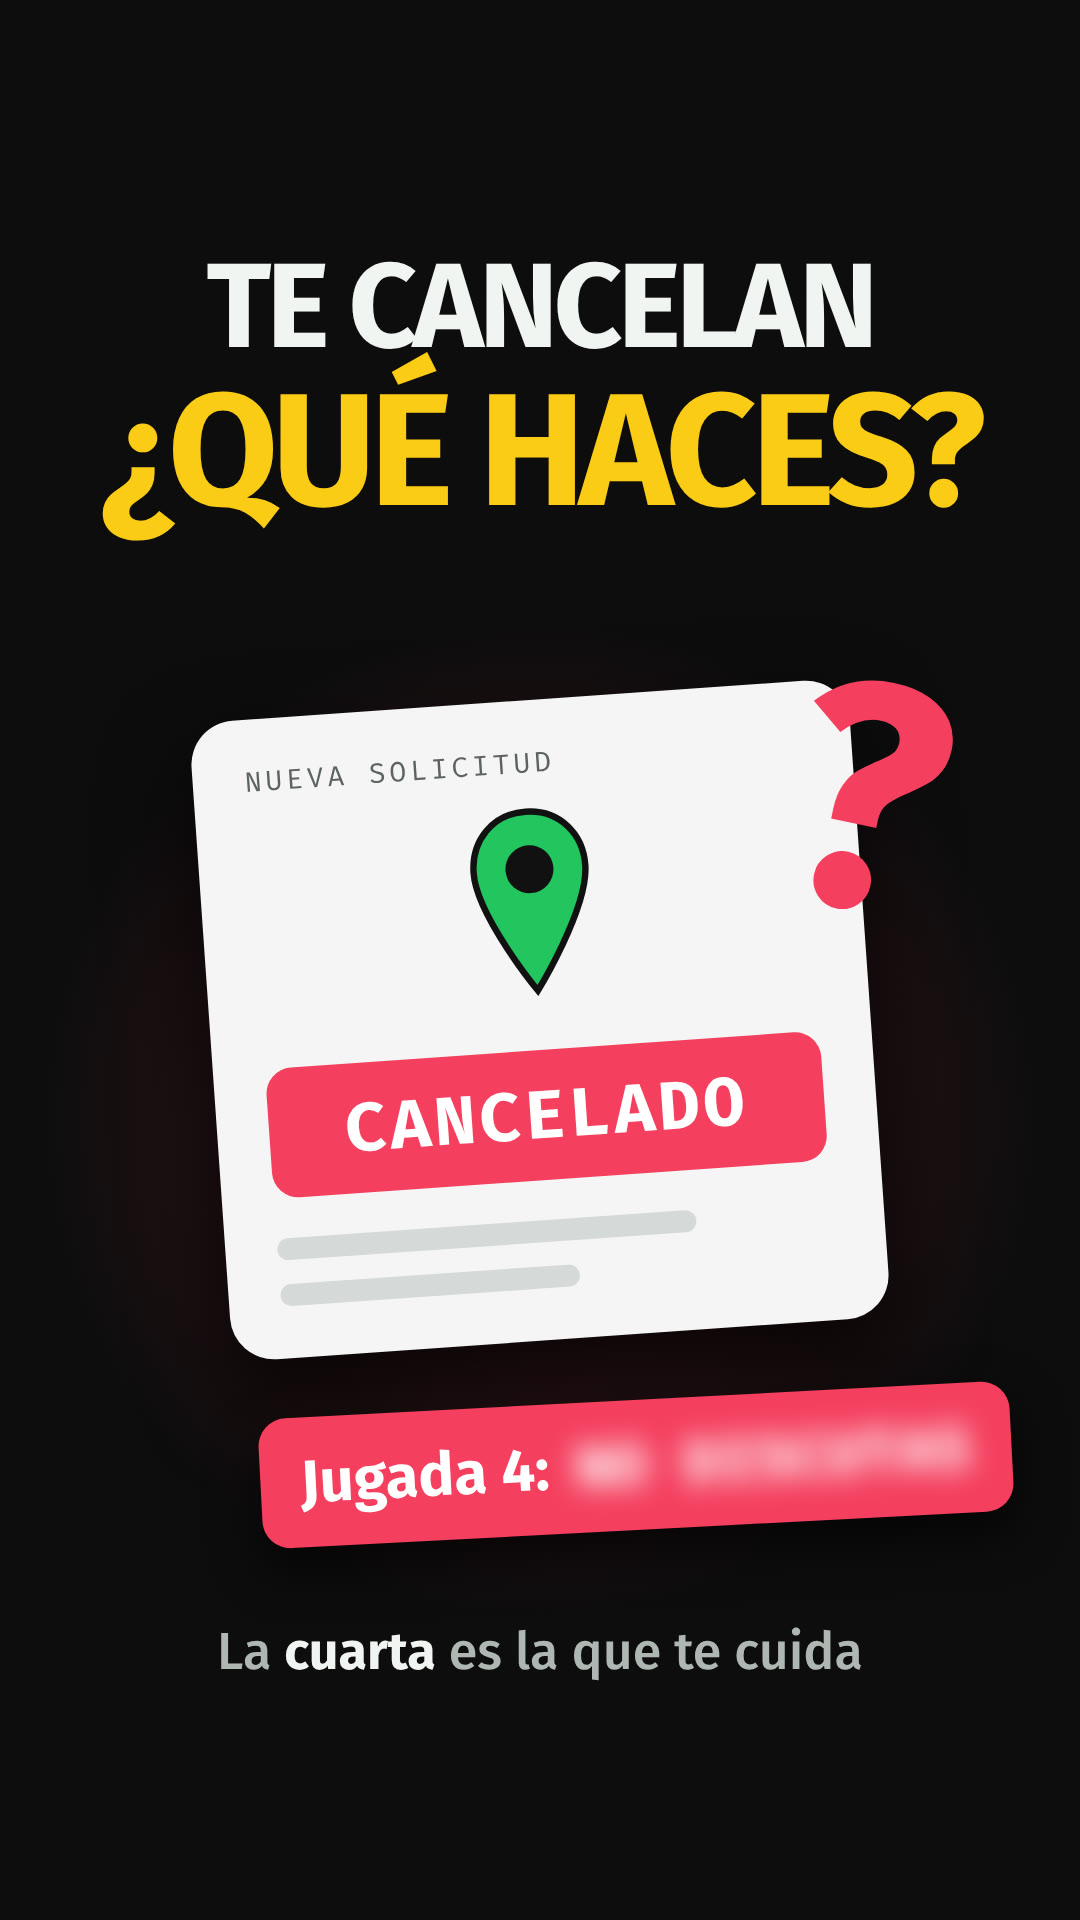
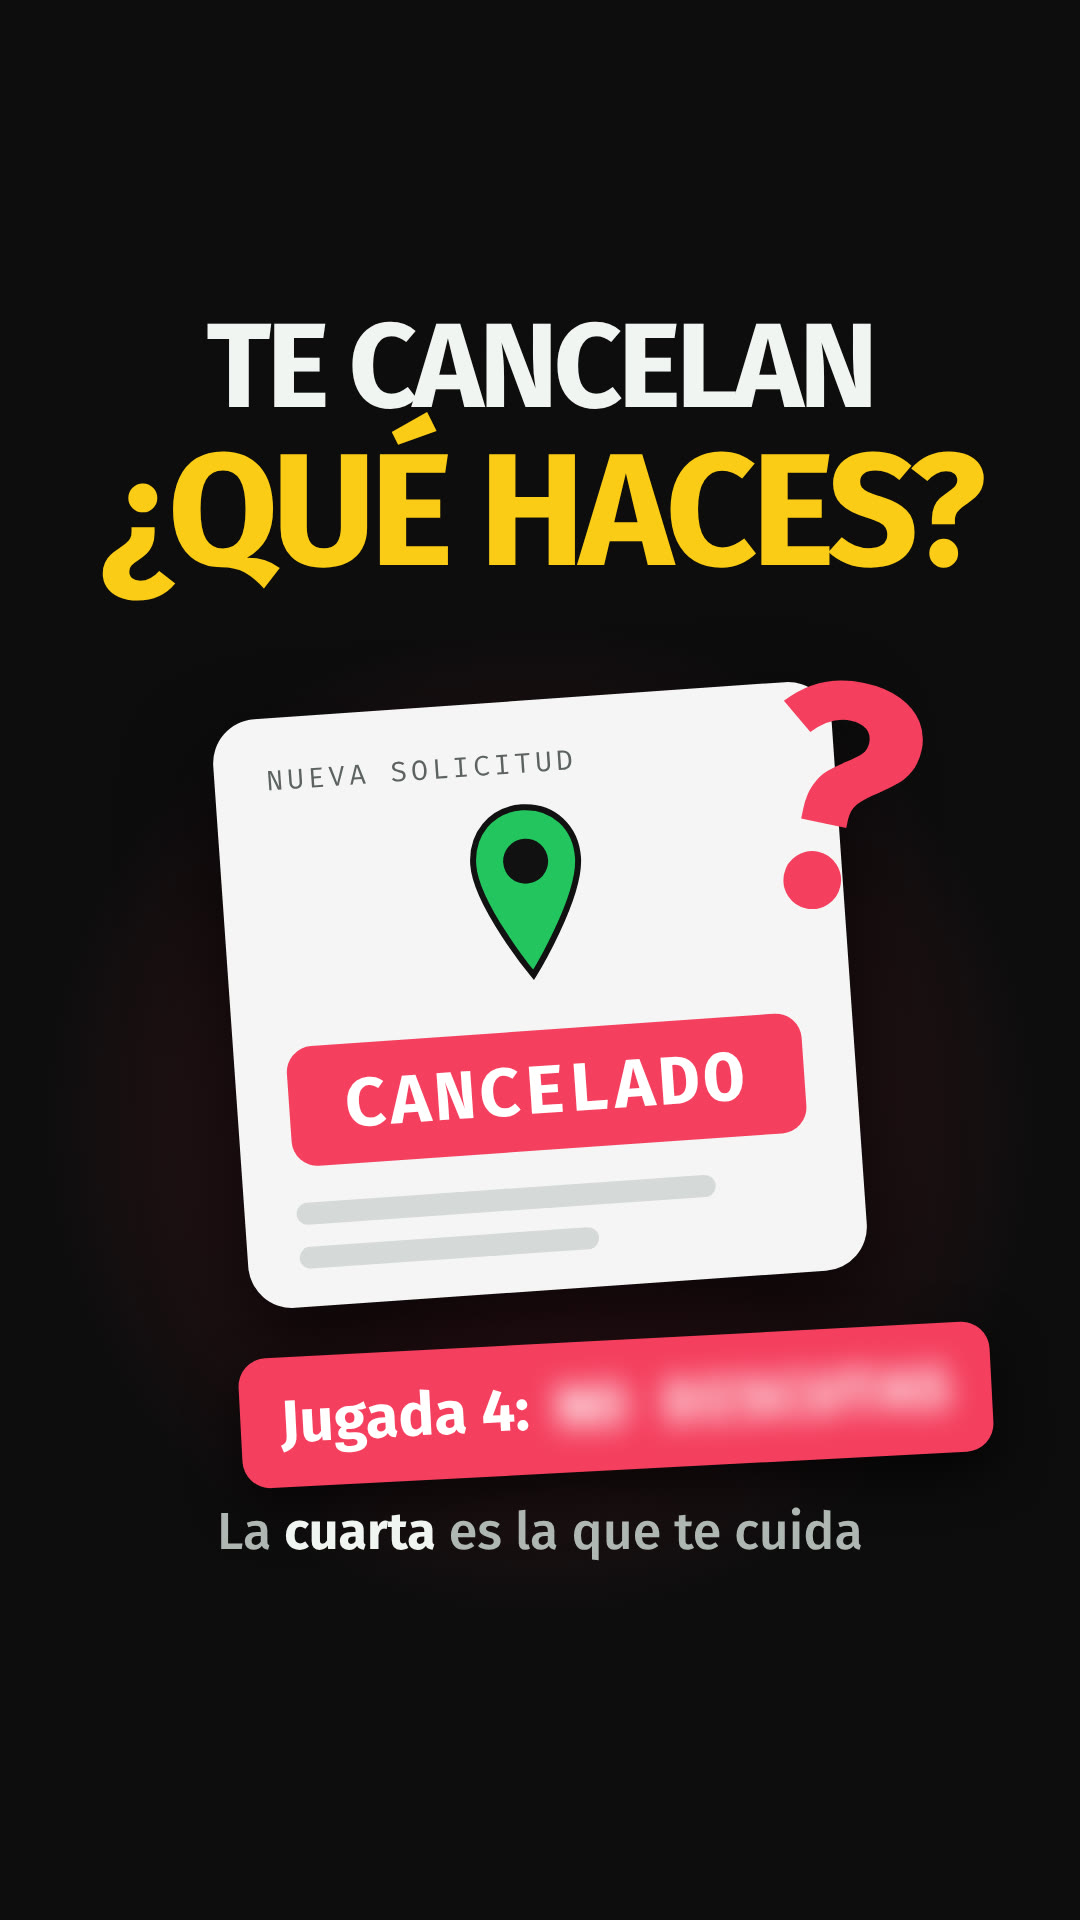
Portada 07 v2 dentro de la zona segura (y 300-1620) y regla para todas las portadas [skip ci]
Claude-Session: https://claude.ai/code/session_018NMdzaDRQ2B94wVXtvSgdR

diff --git a/video/hyperframes/pasajeros-v2/portada/portada.html b/video/hyperframes/pasajeros-v2/portada/portada.html
@@ -5,18 +5,18 @@
 html,body{margin:0;width:1080px;height:1920px;overflow:hidden;background:#0D0D0D;font-family:FS}
 .glow{position:absolute;left:-100px;top:620px;width:1280px;height:1000px;background:radial-gradient(circle,rgba(244,63,94,.26),rgba(0,0,0,0) 62%)}
 .t{position:absolute;left:0;right:0;text-align:center;font-weight:800;letter-spacing:-.04em;line-height:.95;text-transform:uppercase}
-.t1{top:250px;font-size:120px;color:#F1F5F2}
-.t2{top:375px;font-size:160px;color:#FACC15}
-.card{position:absolute;left:210px;top:700px;width:660px;height:640px;border-radius:44px;background:#F4F5F4;transform:rotate(-4deg);box-shadow:0 40px 90px rgba(0,0,0,.8)}
+.t1{top:310px;font-size:120px;color:#F1F5F2}
+.t2{top:435px;font-size:160px;color:#FACC15}
+.card{position:absolute;left:230px;top:700px;width:620px;height:590px;border-radius:44px;background:#F4F5F4;transform:rotate(-4deg);box-shadow:0 40px 90px rgba(0,0,0,.8)}
 .card .k{position:absolute;left:52px;top:44px;font-family:FC;font-size:28px;letter-spacing:.14em;color:#5C635F;text-transform:uppercase}
-.card svg{position:absolute;left:250px;top:100px;width:160px;height:208px}
-.card .can{position:absolute;left:52px;right:52px;top:350px;height:130px;border-radius:26px;background:#F43F5E;color:#fff;display:flex;align-items:center;justify-content:center;font-family:FC;font-weight:700;font-size:68px;letter-spacing:.06em}
-.card .l1{position:absolute;left:52px;top:520px;width:420px;height:22px;border-radius:11px;background:#D5D9D7}
-.card .l2{position:absolute;left:52px;top:566px;width:300px;height:22px;border-radius:11px;background:#D5D9D7}
-.tag{position:absolute;left:260px;top:1400px;transform:rotate(-3deg);background:#F43F5E;color:#fff;border-radius:28px;padding:26px 40px;font-size:60px;font-weight:800;box-shadow:0 20px 50px rgba(0,0,0,.7)}
+.card svg{position:absolute;left:230px;top:96px;width:150px;height:195px}
+.card .can{position:absolute;left:52px;right:52px;top:330px;height:120px;border-radius:26px;background:#F43F5E;color:#fff;display:flex;align-items:center;justify-content:center;font-family:FC;font-weight:700;font-size:68px;letter-spacing:.06em}
+.card .l1{position:absolute;left:52px;top:486px;width:420px;height:22px;border-radius:11px;background:#D5D9D7}
+.card .l2{position:absolute;left:52px;top:530px;width:300px;height:22px;border-radius:11px;background:#D5D9D7}
+.tag{position:absolute;left:240px;top:1340px;transform:rotate(-3deg);background:#F43F5E;color:#fff;border-radius:28px;padding:26px 40px;font-size:60px;font-weight:800;box-shadow:0 20px 50px rgba(0,0,0,.7)}
 .tag span{font-family:FC;filter:blur(14px);display:inline-block;margin-left:12px}
-.q{position:absolute;left:790px;top:640px;font-size:320px;font-weight:800;color:#F43F5E;transform:rotate(12deg);line-height:1}
-.sub{position:absolute;left:0;right:0;top:1620px;text-align:center;font-size:52px;font-weight:500;color:#AFB7B2}
+.q{position:absolute;left:760px;top:640px;font-size:320px;font-weight:800;color:#F43F5E;transform:rotate(12deg);line-height:1}
+.sub{position:absolute;left:0;right:0;top:1500px;text-align:center;font-size:52px;font-weight:500;color:#AFB7B2}
 .sub b{color:#F1F5F2}
 </style></head><body>
 <div class="glow"></div>

diff --git a/.claude/skills/videos-checa/SKILL.md b/.claude/skills/videos-checa/SKILL.md
@@ -169,7 +169,7 @@ Componentes reutilizables: `Trazo`, `Cota`, `Numero`, `Etiqueta`, `Frase`, `Subs
   2. **Un objeto concreto al centro**, ladeado unos −4°: la oferta genérica blanca, el pop-up, un ticket, el tablero, etc. Sin logos de Uber/DiDi.
   3. **La respuesta escondida**: una etiqueta roja #F43F5E con la cifra o la palabra clave **borrosa** (`filter: blur(14px)`), p. ej. «Te quedan ▒▒», más un «?» rojo gigante que se asoma por una esquina del objeto. Lo borroso es lo que obliga a ver el video.
   4. **Pregunta corta abajo** en gris #AFB7B2 con la palabra clave en blanco («¿Cuánto **ganas tú** de verdad?»).
-  5. Fondo negro con un brillo rojo suave al centro. Nada importante debajo de y≈1700 ni pegado a la derecha (ahí van los botones de TikTok). Las cifras deben cuadrar con el video.
+  5. Fondo negro con un brillo rojo suave al centro. **Zona segura para todas las redes (Eduardo, 16 oct 2026: se publica en TikTok, Instagram, YouTube Shorts y Facebook): todo el contenido entre y=300 y y=1620** (la cuadrícula de Instagram recorta a 3:4, o sea 240 px arriba y abajo), y nada pegado a la derecha (ahí van los botones). Referencia: `video/hyperframes/pasajeros-v2/portada/portada.html`. Las cifras deben cuadrar con el video.
   - Render (sin Remotion): `/opt/pw-browsers/chromium-1194/chrome-linux/chrome --headless --no-sandbox --disable-gpu --hide-scrollbars --window-size=1080,1920 --screenshot=p.png file://$PWD/portada.html` → `ffmpeg -i p.png -q:v 3 marketing/videos/CHECA/NN - Nombre del video/portada.jpg` (la v2, en `marketing/videos/PERSONAL/…`). Revísala con Read antes de mandarla.
 - *(Antes)* composición `Portada` (`video/src/Checa/Portada.tsx`, props `titulo` con `|` para alternar color por línea, `sub`, `color`, `etiqueta`, `fondo` opcional). Render: `npx remotion still Portada out.png --props '{...}'` y pásala a JPG (`ffmpeg -q:v 3`). Guarda la portada junto a su video en `marketing/videos/CHECA/NN - Nombre del video/portada.jpg` (y la de la v2 en `marketing/videos/PERSONAL/NN - Nombre del video/portada.jpg`).
 - **Textos y calendario**: `marketing/plan/calendario.md` (fecha, tipo y ✅; el texto de cada publicación vive solo en el `copy.txt` de su carpeta). Sigue la **fórmula** de arriba del calendario: gancho, 1–2 frases con palabras de búsqueda, pregunta, «Descarga CHECA y checa cuánto te queda de cada viaje (solo Android)» (venta, sin «7 días gratis») o «Guárdalo» (consejo) y 4–5 hashtags. No pegar el guion completo. Sin ciudad ni país, sin #ubermexico, sin «link en el perfil» (no hay link en la bio de TikTok). Por cada video nuevo: su `copy.txt` y su fila en el calendario.
